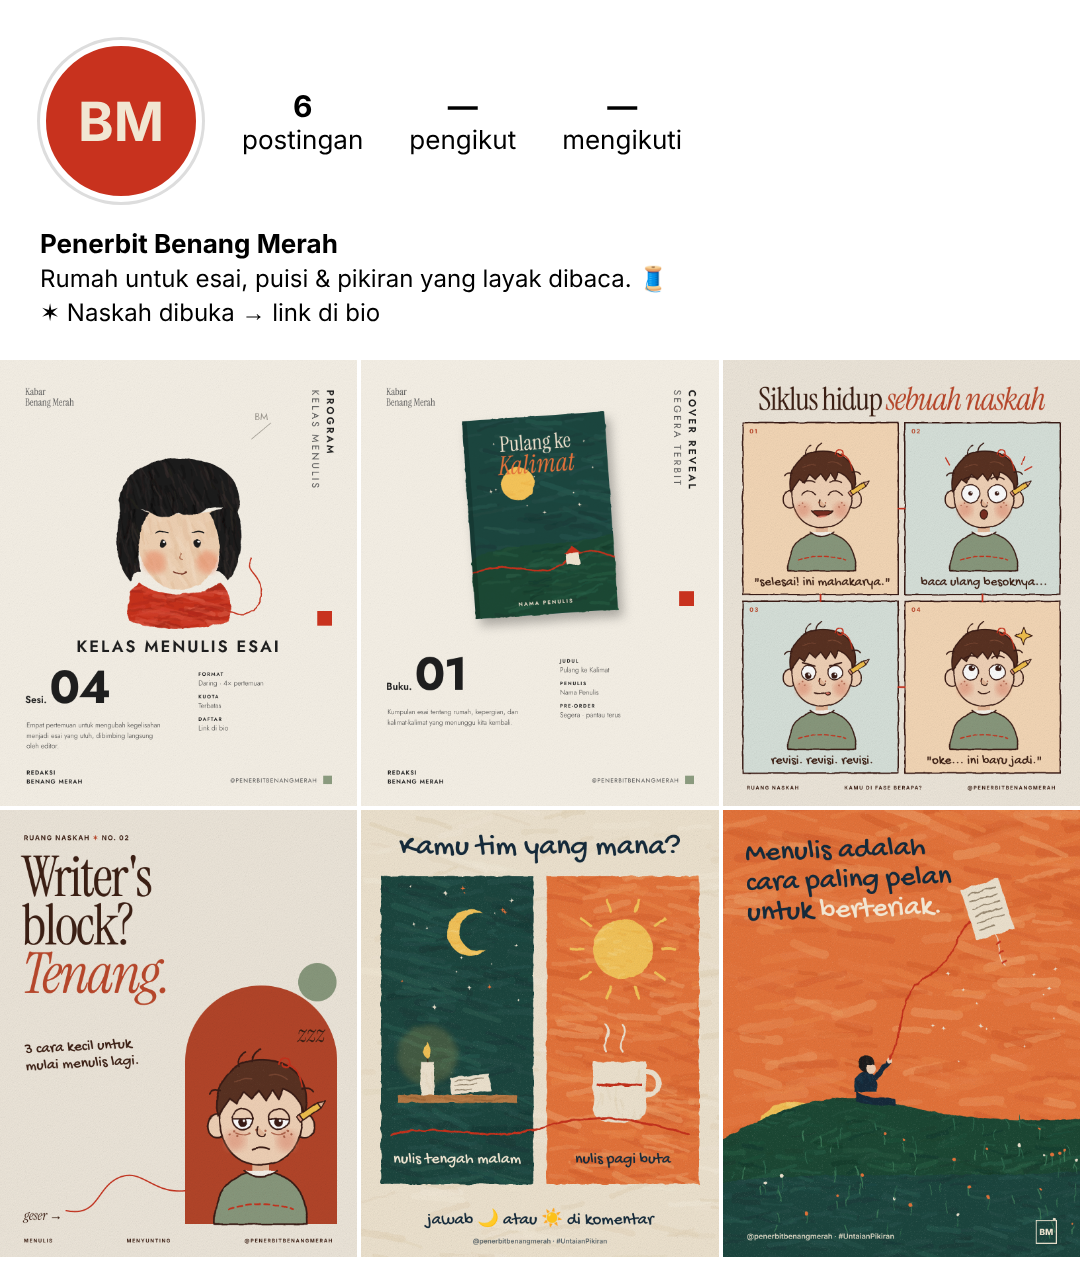
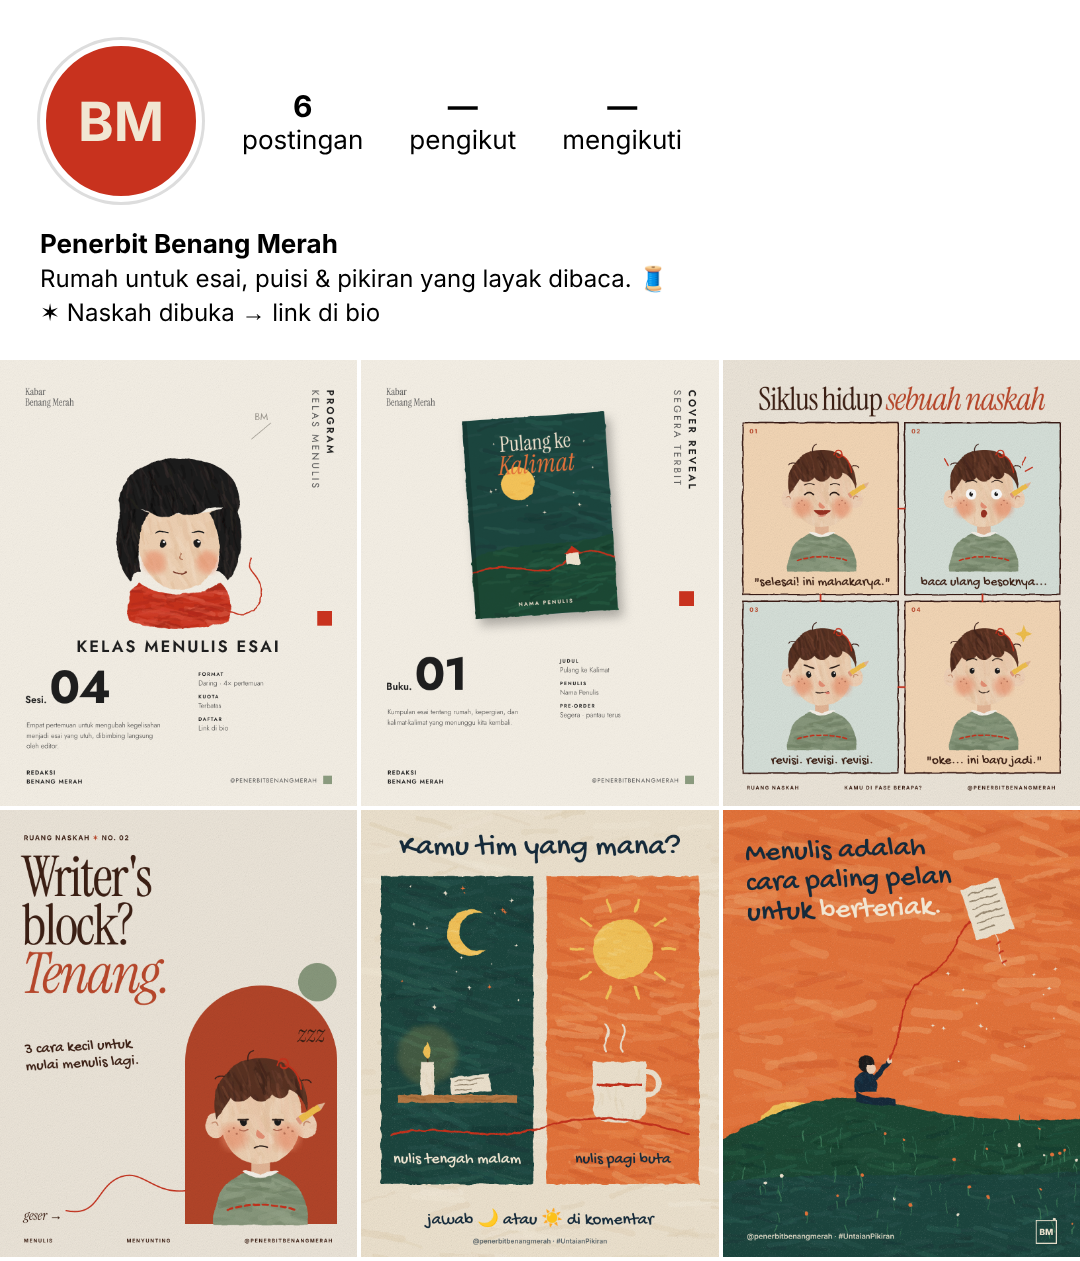
Redraw Utas in painterly no-outline style and update designs
Claude-Session: https://claude.ai/code/session_01PjfPmc8sy7deQmezPEpUxb

diff --git a/konten/benang-merah/feed/lib.js b/konten/benang-merah/feed/lib.js
@@ -66,3 +66,36 @@ function portrait(o){const H=['#2E2A28','#0E0D0D','#3A3330'];
   el('path',{d:'M472 524q18 -10 36 -2M582 522q18 -8 36 2',stroke:'#1C1A1A','stroke-width':4,'stroke-linecap':'round',fill:'none'});
   el('path',{d:'M546 584q-8 18 6 20',stroke:'#B5785A','stroke-width':4,'stroke-linecap':'round',fill:'none'});
   el('path',{d:'M526 642q18 10 36 -2',stroke:'#7A3B2A','stroke-width':4,'stroke-linecap':'round',fill:'none'});}
+/* ---- Utas v2: painterly, no outlines ---- */
+const HT=['#6E4130','#40241A','#7A4733','#4E2C20'],SK=['#F5DCC2','#E8C4A2','#F2CDB0'],SG=['#7D8E72','#99A88C','#6F8064'];
+function utas2(g,e){const keep=P;P=g;
+  paint('M60 432C58 350 104 306 170 306C236 306 282 350 280 432Z',C.sage,SG,90,[6,14],[30,90],0);
+  el('path',{d:'M92 396Q170 374 248 396',stroke:C.red,'stroke-width':5,'stroke-dasharray':'12 9','stroke-linecap':'round',fill:'none'});
+  paint('M148 276H192V318H148Z','#E6B898',[],0);
+  paint('M128 308Q170 338 212 308Q206 300 170 316Q134 300 128 308Z','#F8F4EC',[],0);
+  paint('M40 200a26 30 0 1 0 52 0a26 30 0 1 0 -52 0Z',C.skin,SK,10,[3,6],[8,20]);
+  paint('M248 200a26 30 0 1 0 52 0a26 30 0 1 0 -52 0Z',C.skin,SK,10,[3,6],[8,20]);
+  el('path',{d:'M56 194q10 -6 14 6M284 194q-10 -6 -14 6',stroke:'#C98E70','stroke-width':3,fill:'none','stroke-linecap':'round'});
+  paint('M76 178C74 100 118 70 170 70C224 70 266 102 264 184C262 252 224 290 170 290C116 290 78 252 76 178Z','#F0D2B4',SK,90,[6,14],[30,80],1.3);
+  for(const x of [108,232])el('circle',{cx:x,cy:228,r:30,fill:'#EE8F6A',opacity:.62,filter:'url(#blur)'});
+  for(const [x,y] of [[96,214],[106,206],[114,220],[226,220],[234,206],[244,214]])el('circle',{cx:x,cy:y,r:2.4,fill:'#B0664E',opacity:.8});
+  const H='M66 186C50 120 82 58 150 46C220 34 286 80 278 170C270 140 256 124 236 118C232 136 214 146 196 128C184 148 160 150 146 132C130 150 108 150 100 136C92 150 80 166 66 186Z';
+  paint(H,C.hair,HT,160,[3,8],[20,70],1.2);
+  el('path',{d:'M140 50q-2 -18 12 -24M84 86q-14 -4 -20 6M266 96q14 -6 20 4',stroke:'#40241A','stroke-width':3,fill:'none','stroke-linecap':'round'});
+  el('path',{d:'M208 60c4 -16 24 -18 26 -4c2 14 -18 16 -18 4M228 60c18 6 32 24 36 56',stroke:C.red,'stroke-width':4,fill:'none','stroke-linecap':'round'});
+  const pg=el('g',{transform:'rotate(-35 285 172)'});el('rect',{x:258,y:164,width:52,height:16,fill:'#F2C14E'},pg);el('path',{d:'M310 164l18 8-18 8Z',fill:'#E6B898'},pg);el('rect',{x:250,y:164,width:8,height:16,fill:'#E39A80'},pg);
+  el('path',{d:'M162 210q-8 14 4 20q10 4 14 -4',fill:'#E58A6E',opacity:.9});
+  face2(e);P=keep;}
+function dot(x,y,rx=8,ry=10){el('ellipse',{cx:x,cy:y,rx,ry,fill:'#1C1A1A'});el('circle',{cx:x+2.5,cy:y-4,r:2.6,fill:'#fff'})}
+const L2=(d,w=3.5,c='#2A1A14')=>el('path',{d,stroke:c,'stroke-width':w,fill:'none','stroke-linecap':'round'});
+function face2(e){const L=130,R=210,Y=186;
+  if(e==='senang'){L2(`M${L-14} ${Y+2}q14 -14 28 0M${R-14} ${Y+2}q14 -14 28 0`,4.5);el('path',{d:'M142 236q28 34 56 0Z',fill:'#9A3324'});el('path',{d:'M156 254q14 8 28 0',fill:'#E07A6A'});L2(`M${L-16} ${Y-30}q16 -8 30 -2M${R-14} ${Y-32}q16 -6 30 2`,3);}
+  if(e==='bingung'){dot(L+4,Y-4);dot(R+4,Y-4);L2(`M${L-16} ${Y-30}q16 -4 30 2M${R-12} ${Y-42}q16 -12 30 -2`,3);L2('M150 248q7 -7 14 0t14 0t14 0',3);
+    el('text',{x:262,y:64,'font-family':'Gochi Hand','font-size':46,fill:C.red}).textContent='?';}
+  if(e==='kaget'){for(const x of [L,R]){el('circle',{cx:x,cy:Y,r:17,fill:'#fff'});dot(x,Y,6,7)}L2(`M${L-18} ${Y-38}q18 -12 34 -2M${R-16} ${Y-40}q18 -10 34 2`,3);
+    el('ellipse',{cx:170,cy:248,rx:10,ry:13,fill:'#9A3324'});L2('M292 92l10 -24M302 112l22 -12M56 94l-12 -22',4,C.red);}
+  if(e==='lelah'){dot(L,Y+6);dot(R,Y+6);el('path',{d:`M${L-14} ${Y+4}h28v-16h-28Z M${R-14} ${Y+4}h28v-16h-28Z`,fill:'#F0D2B4'});L2(`M${L-12} ${Y+2}h24M${R-12} ${Y+2}h24`,3.5);
+    L2(`M${L-10} ${Y+24}q10 5 20 0M${R-10} ${Y+24}q10 5 20 0`,2.5,'#B0664E');L2('M154 252q16 -6 32 0',3);}
+  if(e==='ide'){dot(L+3,Y-6);dot(R+3,Y-6);L2(`M${L-16} ${Y-38}q16 -12 32 -4M${R-14} ${Y-40}q16 -10 32 0`,3);L2('M154 244q16 14 32 0',3);
+    el('path',{d:'M296 34l8 20 20 8-20 8-8 20-8-20-20-8 20-8Z',fill:'#F2C14E'});}
+  if(e==='fokus'){dot(L-2,Y+6);dot(R-2,Y+6);L2(`M${L-16} ${Y-24}l30 10M${R+16} ${Y-24}l-30 10`,4.5);L2('M150 248q20 6 40 -2',3);el('path',{d:'M180 248q6 12 14 4q2 -6 -4 -6Z',fill:'#E07A6A'});}}

diff --git a/konten/benang-merah/feed/maskot-02.html b/konten/benang-merah/feed/maskot-02.html
@@ -1,0 +1,18 @@
+<!DOCTYPE html><html lang="id"><head><meta charset="utf-8">
+<link href="https://fonts.googleapis.com/css2?family=Gochi+Hand&family=Instrument+Serif:ital@0;1&family=Jost:wght@300;400;600;700&family=Inter:wght@600;700;800&display=block" rel="stylesheet">
+<style>html,body{margin:0}#post{width:1080px;height:1350px;position:relative;overflow:hidden}svg#s{position:absolute;inset:0}
+.a{position:absolute}.gh{font-family:'Gochi Hand'}.is{font-family:'Instrument Serif'}.jo{font-family:Jost}.in{font-family:Inter}
+.caps{left:72px;right:72px;bottom:46px;display:flex;justify-content:space-between;font:700 15px Inter;letter-spacing:3px}
+</style><script src="lib.js"></script></head><body><div id="post" style="background:#F6F1E7">
+<svg id="s" viewBox="0 0 1080 1350" width="1080" height="1350"></svg>
+<div class="a is" style="left:0;right:0;top:56px;text-align:center;font-size:104px;letter-spacing:-3px;color:#3B1F14">Hai, aku <i style="color:#B5462A">Utas.</i></div>
+<div class="a gh" style="left:0;right:0;top:176px;text-align:center;font-size:36px;color:#5A3A2C">teman menulismu di Benang Merah</div>
+<div id="caps"></div>
+<div class="a caps" style="color:#3B1F14"><span>MASKOT</span><span>PENERBIT BENANG MERAH</span><span>@PENERBITBENANGMERAH</span></div></div><script>
+setup(null,.3,0);P=document.getElementById('art');seed=5;
+const cells=[['senang','naskah diterima!'],['bingung','revisi ke-7?'],['kaget','deadline besok?!'],['lelah','nulis sampai subuh'],['ide','ide datang jam 2 pagi'],['fokus','mode menulis: ON']];
+const caps=document.getElementById('caps');
+cells.forEach(([e,t],i)=>{const x=40+(i%3)*340,y=250+Math.floor(i/3)*520;
+  const g=el('g',{transform:`translate(${x} ${y}) scale(.95) translate(9 0)`,filter:'url(#wob)'});utas2(g,e);
+  const d=document.createElement('div');d.className='a gh';d.style.cssText=`left:${x}px;top:${y+430}px;width:340px;text-align:center;font-size:34px;color:#3B1F14`;d.textContent=t;caps.appendChild(d)});
+</script></body></html>

diff --git a/konten/benang-merah/feed/04-utas-siklus-revisi.html b/konten/benang-merah/feed/04-utas-siklus-revisi.html
@@ -15,7 +15,7 @@
 setup(null,.35,0);P=document.getElementById('art');
 const cells=[[60,190,'senang','#F6D9B8'],[550,190,'kaget','#D9E3DC'],[60,730,'fokus','#D9E3DC'],[550,730,'ide','#F6D9B8']];
 for(const [x,y,e,bg] of cells){el('rect',{x,y,width:470,height:520,fill:bg,stroke:C.ink,'stroke-width':4,filter:'url(#wob)'});
-  const g=el('g',{transform:`translate(${x+78} ${y+40}) scale(.95)`,filter:'url(#wob)'});utas(g,e);
+  const g=el('g',{transform:`translate(${x+78} ${y+40}) scale(.95)`,filter:'url(#wob)'});utas2(g,e);
   el('rect',{x,y:y+440,width:470,height:80,fill:'#EFE8DC',opacity:0})}
 el('path',{d:'M530 450H550M530 990H550M295 710V730M785 710V730',stroke:C.red,'stroke-width':5,'stroke-linecap':'round'});
 </script></body></html>

diff --git a/konten/benang-merah/feed/03-utas-writers-block.html b/konten/benang-merah/feed/03-utas-writers-block.html
@@ -13,7 +13,7 @@
 setup(null,.35,0);P=document.getElementById('art');
 el('path',{d:'M560 1250V760a230 230 0 0 1 460 0V1250Z',fill:'#B5462A'});
 el('circle',{cx:960,cy:520,r:58,fill:C.sage});
-const g=el('g',{transform:'translate(568 692) scale(1.3)',filter:'url(#wob)'});utas(g,'lelah');
+const g=el('g',{transform:'translate(568 692) scale(1.3)',filter:'url(#wob)'});utas2(g,'lelah');
 el('text',{x:900,y:700,'font-family':'Instrument Serif','font-style':'italic','font-size':72,fill:'#3B1F14'}).textContent='zzz';
 el('path',{d:'M560 1150C460 1160 430 1080 360 1110S300 1230 200 1210',stroke:C.red,'stroke-width':4,fill:'none','stroke-linecap':'round'});
 </script></body></html>

diff --git a/konten/benang-merah/feed/gen.py b/konten/benang-merah/feed/gen.py
@@ -71,7 +71,7 @@ D['03-utas-writers-block']=dict(BG='#EFE8DC',CSS='',HTML='''
 setup(null,.35,0);P=document.getElementById('art');
 el('path',{d:'M560 1250V760a230 230 0 0 1 460 0V1250Z',fill:'#B5462A'});
 el('circle',{cx:960,cy:520,r:58,fill:C.sage});
-const g=el('g',{transform:'translate(568 692) scale(1.3)',filter:'url(#wob)'});utas(g,'lelah');
+const g=el('g',{transform:'translate(568 692) scale(1.3)',filter:'url(#wob)'});utas2(g,'lelah');
 el('text',{x:900,y:700,'font-family':'Instrument Serif','font-style':'italic','font-size':72,fill:'#3B1F14'}).textContent='zzz';
 el('path',{d:'M560 1150C460 1160 430 1080 360 1110S300 1230 200 1210',stroke:C.red,'stroke-width':4,fill:'none','stroke-linecap':'round'});
 ''')
@@ -87,7 +87,7 @@ D['04-utas-siklus-revisi']=dict(BG='#EFE8DC',CSS='.cap{position:absolute;width:4
 setup(null,.35,0);P=document.getElementById('art');
 const cells=[[60,190,'senang','#F6D9B8'],[550,190,'kaget','#D9E3DC'],[60,730,'fokus','#D9E3DC'],[550,730,'ide','#F6D9B8']];
 for(const [x,y,e,bg] of cells){el('rect',{x,y,width:470,height:520,fill:bg,stroke:C.ink,'stroke-width':4,filter:'url(#wob)'});
-  const g=el('g',{transform:`translate(${x+78} ${y+40}) scale(.95)`,filter:'url(#wob)'});utas(g,e);
+  const g=el('g',{transform:`translate(${x+78} ${y+40}) scale(.95)`,filter:'url(#wob)'});utas2(g,e);
   el('rect',{x,y:y+440,width:470,height:80,fill:'#EFE8DC',opacity:0})}
 el('path',{d:'M530 450H550M530 990H550M295 710V730M785 710V730',stroke:C.red,'stroke-width':5,'stroke-linecap':'round'});
 ''')

diff --git a/konten/benang-merah/PANDUAN-STYLE.md b/konten/benang-merah/PANDUAN-STYLE.md
@@ -18,7 +18,7 @@ Contoh: `post-02.png`, `post-04.png`
 ---
 
 ## STYLE 2 — Maskot "Utas"  ·  #RuangNaskah
-Contoh: `maskot-01.png` (lembar ekspresi), tata letak pendukung dari `post-05.png`
+Contoh: `feed/maskot-02.png` (lembar ekspresi versi final), `feed/03-…png`, `feed/04-…png`. (`maskot-01.png` = versi lama bergaris tebal, tidak dipakai lagi)
 
 - **Untuk:** tips menulis, edukasi penerbitan, "Tahukah Kamu?", kamus penerbitan, reaksi & humor dunia penulis, stiker Story, komik 4 panel.
 - **Tokoh Utas (wajib konsisten):**
@@ -29,7 +29,7 @@ Contoh: `maskot-01.png` (lembar ekspresi), tata letak pendukung dari `post-05.pn
   - pipi merona + bintik-bintik
   - sweater sage #8A9A7E dengan **jahitan benang merah putus-putus** di dada, kerah krem
 - **Ekspresi baku:** senang · bingung · kaget · lelah · dapat ide · fokus (tambah sesuai kebutuhan, ciri di atas tidak boleh hilang)
-- **Garis:** tinta cokelat tua #3B1F14, tebal ±4px, sedikit bergetar.
+- **Teknik gambar (versi final):** TANPA garis tepi. Bidang warna datar bertekstur sapuan kuas, tepi sedikit bergetar. Garis hanya untuk detail wajah (mata, alis, mulut) dan helai rambut tipis. Mata titik hitam kecil dengan titik cahaya; pipi merona besar dan lembut; ujung hidung kemerahan.
 - **Latar:** krem #EFE8DC bertekstur kertas.
 - **Warna pendukung:** bata #B5462A · sage #8A9A7E · krem · cokelat tua.
 - **Huruf:** judul serif ramping (Instrument Serif, italic untuk kata kunci warna bata) · keterangan tulisan tangan (Gochi Hand) · label kecil huruf kapital berjarak lebar (Inter Bold).
